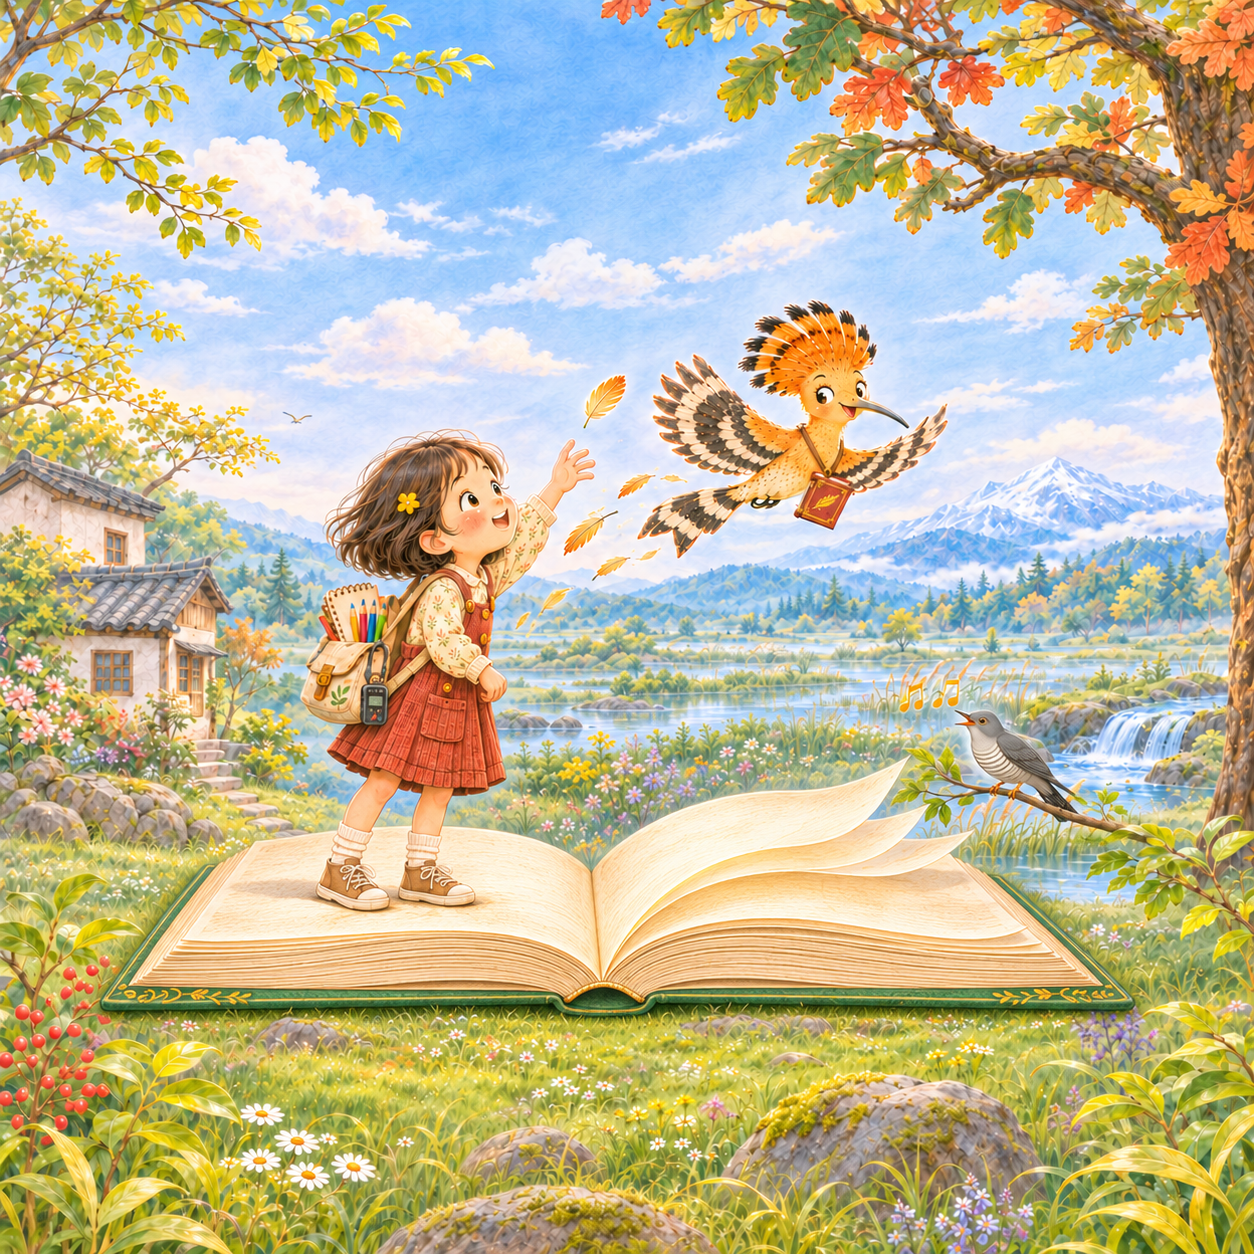
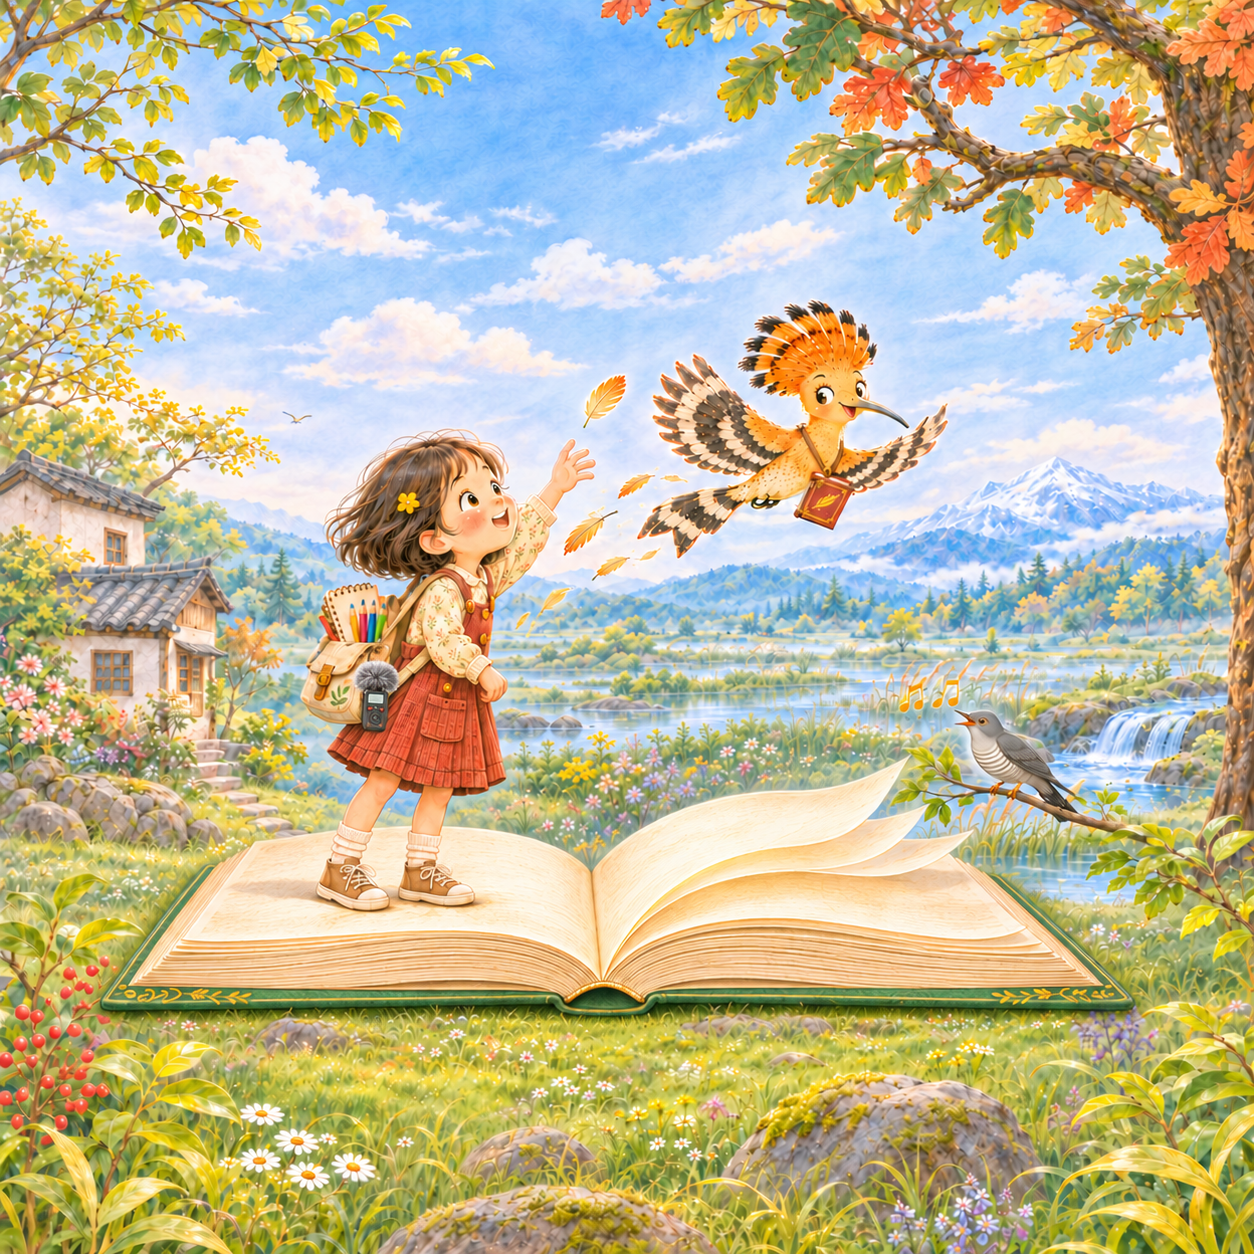
Add bird layered artwork P15-P34 and approved recorder reference

diff --git a/鸟类绘本/正式素材/README.md b/鸟类绘本/正式素材/README.md
@@ -1,6 +1,6 @@
 # 鸟类绘本正式分层素材
 
-全书40页，已生成42个PNG；逐页目视检查完成14/40页。只按下表实际文件与检查状态交付，未完成页不使用旧图或占位图。
+全书40页，已生成102个PNG；逐页目视检查完成31/40页。只按下表实际文件与检查状态交付，未完成页不使用旧图或占位图。
 
 依据[正式制图剧本](../正式制图剧本.md)与[制图约束规范](../制图约束规范.md)，按新版章节顺序归档。场景保存工具生成原尺寸，不超分或插值放大；标题正文与纸签为真正RGBA透明PNG，按原生像素无损分离，未用电脑字体替代手写字。工具输出的PPI元数据按实际保留，不用PPI声称新增细节。
 
@@ -24,26 +24,26 @@ P1为寻找提示；P37为观察记录（含本页百科）；P38献辞、P39封
 | P12 | 回到图书馆 | [1254×1254](01-第一章：飞向世界/P12｜回到图书馆/无字图-1254px.png) | [887×887](01-第一章：飞向世界/P12｜回到图书馆/标题与正文-透明底.png) | [887×887](01-第一章：飞向世界/P12｜回到图书馆/鸟类小百科-透明底.png) | 通过 |
 | P13 | 第二章：寻找最美鸟鸣 | [1254×1254](02-第二章：寻找最美鸟鸣/P13｜第二章：寻找最美鸟鸣/无字图-1254px.png) | [887×887](02-第二章：寻找最美鸟鸣/P13｜第二章：寻找最美鸟鸣/标题与正文-透明底.png) | [887×887](02-第二章：寻找最美鸟鸣/P13｜第二章：寻找最美鸟鸣/鸟类小百科-透明底.png) | 通过 |
 | P14 | 带上录音机，出发！ | [1254×1254](02-第二章：寻找最美鸟鸣/P14｜带上录音机，出发！/无字图-1254px.png) | [891×887](02-第二章：寻找最美鸟鸣/P14｜带上录音机，出发！/标题与正文-透明底.png) | [883×887](02-第二章：寻找最美鸟鸣/P14｜带上录音机，出发！/鸟类小百科-透明底.png) | 通过 |
-| P15 | 老街上的歌手 | 待生成 | 待生成 | 待生成 | 制作中 |
-| P16 | 大嗓门与小不点 | 待生成 | 待生成 | 待生成 | 制作中 |
-| P17 | 月光里的歌 | 待生成 | 待生成 | 待生成 | 制作中 |
-| P18 | 清晨的合唱 | 待生成 | 待生成 | 待生成 | 制作中 |
-| P19 | 湿地里的三位邻居 | 待生成 | 待生成 | 待生成 | 制作中 |
-| P20 | 把歌声画下来 | 待生成 | 待生成 | 待生成 | 制作中 |
-| P21 | 第三章：隐身大师与特技演员 | 待生成 | 待生成 | 待生成 | 制作中 |
-| P22 | 会移动的“小土块” | 待生成 | 待生成 | 待生成 | 制作中 |
-| P23 | 会悬停的蜂鸟 | 待生成 | 待生成 | 待生成 | 制作中 |
-| P24 | 风里的飞行高手 | 待生成 | 待生成 | 待生成 | 制作中 |
-| P25 | 草原大鸟鸵鸟 | 待生成 | 待生成 | 待生成 | 制作中 |
-| P26 | 南极企鹅 | 待生成 | 待生成 | 待生成 | 制作中 |
-| P27 | 溪流里的蓝宝石 | 待生成 | 待生成 | 待生成 | 制作中 |
-| P28 | 大网兜与“倒立鸭” | 待生成 | 待生成 | 待生成 | 制作中 |
-| P29 | 还有空白的一页 | 待生成 | 待生成 | 待生成 | 制作中 |
-| P30 | 第四章：鸟儿怎样生活 | 待生成 | 待生成 | 待生成 | 制作中 |
-| P31 | 林下的漂亮邻居 | 待生成 | 待生成 | 待生成 | 制作中 |
-| P32 | 竹林里的野生亲戚 | 待生成 | 待生成 | 待生成 | 制作中 |
-| P33 | 储藏家与编织匠 | 待生成 | 待生成 | 待生成 | 制作中 |
-| P34 | 秋林里的藏宝家 | 待生成 | 待生成 | 待生成 | 制作中 |
+| P15 | 老街上的歌手 | [1254×1254](02-第二章：寻找最美鸟鸣/P15｜老街上的歌手/无字图-1254px.png) | [887×887](02-第二章：寻找最美鸟鸣/P15｜老街上的歌手/标题与正文-透明底.png) | [887×887](02-第二章：寻找最美鸟鸣/P15｜老街上的歌手/鸟类小百科-透明底.png) | 通过 |
+| P16 | 大嗓门与小不点 | [1254×1254](02-第二章：寻找最美鸟鸣/P16｜大嗓门与小不点/无字图-1254px.png) | [887×887](02-第二章：寻找最美鸟鸣/P16｜大嗓门与小不点/标题与正文-透明底.png) | [887×887](02-第二章：寻找最美鸟鸣/P16｜大嗓门与小不点/鸟类小百科-透明底.png) | 通过 |
+| P17 | 月光里的歌 | [1254×1254](02-第二章：寻找最美鸟鸣/P17｜月光里的歌/无字图-1254px.png) | [887×887](02-第二章：寻找最美鸟鸣/P17｜月光里的歌/标题与正文-透明底.png) | [887×887](02-第二章：寻找最美鸟鸣/P17｜月光里的歌/鸟类小百科-透明底.png) | 通过 |
+| P18 | 清晨的合唱 | [1254×1254](02-第二章：寻找最美鸟鸣/P18｜清晨的合唱/无字图-1254px.png) | [887×887](02-第二章：寻找最美鸟鸣/P18｜清晨的合唱/标题与正文-透明底.png) | [887×887](02-第二章：寻找最美鸟鸣/P18｜清晨的合唱/鸟类小百科-透明底.png) | 通过 |
+| P19 | 湿地里的三位邻居 | [1254×1254](02-第二章：寻找最美鸟鸣/P19｜湿地里的三位邻居/无字图-1254px.png) | [887×887](02-第二章：寻找最美鸟鸣/P19｜湿地里的三位邻居/标题与正文-透明底.png) | [887×887](02-第二章：寻找最美鸟鸣/P19｜湿地里的三位邻居/鸟类小百科-透明底.png) | 通过 |
+| P20 | 把歌声画下来 | [1254×1254](02-第二章：寻找最美鸟鸣/P20｜把歌声画下来/无字图-1254px.png) | [887×887](02-第二章：寻找最美鸟鸣/P20｜把歌声画下来/标题与正文-透明底.png) | [887×887](02-第二章：寻找最美鸟鸣/P20｜把歌声画下来/鸟类小百科-透明底.png) | 通过 |
+| P21 | 第三章：隐身大师与特技演员 | [1254×1254](03-第三章：隐身大师与特技演员/P21｜第三章：隐身大师与特技演员/无字图-1254px.png) | [887×887](03-第三章：隐身大师与特技演员/P21｜第三章：隐身大师与特技演员/标题与正文-透明底.png) | [887×887](03-第三章：隐身大师与特技演员/P21｜第三章：隐身大师与特技演员/鸟类小百科-透明底.png) | 通过 |
+| P22 | 会移动的“小土块” | [1254×1254](03-第三章：隐身大师与特技演员/P22｜会移动的“小土块”/无字图-1254px.png) | [887×887](03-第三章：隐身大师与特技演员/P22｜会移动的“小土块”/标题与正文-透明底.png) | [887×887](03-第三章：隐身大师与特技演员/P22｜会移动的“小土块”/鸟类小百科-透明底.png) | 通过 |
+| P23 | 会悬停的蜂鸟 | [1254×1254](03-第三章：隐身大师与特技演员/P23｜会悬停的蜂鸟/无字图-1254px.png) | [887×887](03-第三章：隐身大师与特技演员/P23｜会悬停的蜂鸟/标题与正文-透明底.png) | [887×887](03-第三章：隐身大师与特技演员/P23｜会悬停的蜂鸟/鸟类小百科-透明底.png) | 通过 |
+| P24 | 风里的飞行高手 | [1254×1254](03-第三章：隐身大师与特技演员/P24｜风里的飞行高手/无字图-1254px.png) | [887×887](03-第三章：隐身大师与特技演员/P24｜风里的飞行高手/标题与正文-透明底.png) | [887×887](03-第三章：隐身大师与特技演员/P24｜风里的飞行高手/鸟类小百科-透明底.png) | 通过 |
+| P25 | 草原大鸟鸵鸟 | [1254×1254](03-第三章：隐身大师与特技演员/P25｜草原大鸟鸵鸟/无字图-1254px.png) | [887×887](03-第三章：隐身大师与特技演员/P25｜草原大鸟鸵鸟/标题与正文-透明底.png) | [887×887](03-第三章：隐身大师与特技演员/P25｜草原大鸟鸵鸟/鸟类小百科-透明底.png) | 通过 |
+| P26 | 南极企鹅 | [1254×1254](03-第三章：隐身大师与特技演员/P26｜南极企鹅/无字图-1254px.png) | [887×887](03-第三章：隐身大师与特技演员/P26｜南极企鹅/标题与正文-透明底.png) | [887×887](03-第三章：隐身大师与特技演员/P26｜南极企鹅/鸟类小百科-透明底.png) | 场景待检查／修订 |
+| P27 | 溪流里的蓝宝石 | [1254×1254](03-第三章：隐身大师与特技演员/P27｜溪流里的蓝宝石/无字图-1254px.png) | [887×887](03-第三章：隐身大师与特技演员/P27｜溪流里的蓝宝石/标题与正文-透明底.png) | [887×887](03-第三章：隐身大师与特技演员/P27｜溪流里的蓝宝石/鸟类小百科-透明底.png) | 通过 |
+| P28 | 大网兜与“倒立鸭” | [1254×1254](03-第三章：隐身大师与特技演员/P28｜大网兜与“倒立鸭”/无字图-1254px.png) | [887×887](03-第三章：隐身大师与特技演员/P28｜大网兜与“倒立鸭”/标题与正文-透明底.png) | [887×887](03-第三章：隐身大师与特技演员/P28｜大网兜与“倒立鸭”/鸟类小百科-透明底.png) | 通过 |
+| P29 | 还有空白的一页 | [1254×1254](03-第三章：隐身大师与特技演员/P29｜还有空白的一页/无字图-1254px.png) | [887×887](03-第三章：隐身大师与特技演员/P29｜还有空白的一页/标题与正文-透明底.png) | [887×887](03-第三章：隐身大师与特技演员/P29｜还有空白的一页/鸟类小百科-透明底.png) | 通过 |
+| P30 | 第四章：鸟儿怎样生活 | [1254×1254](04-第四章：鸟儿怎样生活/P30｜第四章：鸟儿怎样生活/无字图-1254px.png) | [887×887](04-第四章：鸟儿怎样生活/P30｜第四章：鸟儿怎样生活/标题与正文-透明底.png) | [887×887](04-第四章：鸟儿怎样生活/P30｜第四章：鸟儿怎样生活/鸟类小百科-透明底.png) | 通过 |
+| P31 | 林下的漂亮邻居 | [1254×1254](04-第四章：鸟儿怎样生活/P31｜林下的漂亮邻居/无字图-1254px.png) | [887×887](04-第四章：鸟儿怎样生活/P31｜林下的漂亮邻居/标题与正文-透明底.png) | [887×887](04-第四章：鸟儿怎样生活/P31｜林下的漂亮邻居/鸟类小百科-透明底.png) | 场景待检查／修订 |
+| P32 | 竹林里的野生亲戚 | [1254×1254](04-第四章：鸟儿怎样生活/P32｜竹林里的野生亲戚/无字图-1254px.png) | [887×887](04-第四章：鸟儿怎样生活/P32｜竹林里的野生亲戚/标题与正文-透明底.png) | [887×887](04-第四章：鸟儿怎样生活/P32｜竹林里的野生亲戚/鸟类小百科-透明底.png) | 场景待检查／修订 |
+| P33 | 储藏家与编织匠 | [1254×1254](04-第四章：鸟儿怎样生活/P33｜储藏家与编织匠/无字图-1254px.png) | [887×887](04-第四章：鸟儿怎样生活/P33｜储藏家与编织匠/标题与正文-透明底.png) | [887×887](04-第四章：鸟儿怎样生活/P33｜储藏家与编织匠/鸟类小百科-透明底.png) | 通过 |
+| P34 | 秋林里的藏宝家 | [1254×1254](04-第四章：鸟儿怎样生活/P34｜秋林里的藏宝家/无字图-1254px.png) | [887×887](04-第四章：鸟儿怎样生活/P34｜秋林里的藏宝家/标题与正文-透明底.png) | [887×887](04-第四章：鸟儿怎样生活/P34｜秋林里的藏宝家/鸟类小百科-透明底.png) | 通过 |
 | P35 | 风暴中的火烈鸟与军舰鸟 | 待生成 | 待生成 | 待生成 | 制作中 |
 | P36 | 每一种声音，都有自己的位置 | 待生成 | 待生成 | 待生成 | 制作中 |
 | P37 | 我的鸟类观察手册 | 待生成 | 待生成 | 待生成 | 制作中 |
@@ -55,7 +55,7 @@ P1为寻找提示；P37为观察记录（含本页百科）；P38献辞、P39封
 
 | 页码 | SHA-256 |
 |---|---|
[5 lines of base64/hex data omitted]
@@ -67,5 +67,25 @@ P1为寻找提示；P37为观察记录（含本页百科）；P38献辞、P39封
[27 lines of base64/hex data omitted]

diff --git a/skills/childrens-picturebook-illustration/SKILL.md b/skills/childrens-picturebook-illustration/SKILL.md
@@ -144,6 +144,7 @@ Apply these constraints to this project. The user's latest confirmed correction 
 ## 文件命名与当前项目
 
 - 鸟类本轮允许改动构图并缩小主体：四边约12%—15%连续自然环境缓冲，核心人物动物向内收，装订侧额外避让，逐页检查实际边距。开放精装书要有左右朝上内页、中间书槽、纸堆下薄封皮；封面小满站在一侧书页上，不再站书脊或竖直封皮边。此最新要求优先于下文旧封面提示词。
+- 鸟类录音机以[用户确认的P24造型与手部比例](../../鸟类绘本/制图参考/README.md)为唯一标准：深灰竖式小机身、单个圆形灰色防风毛罩、小屏、小红键与下部圆形控制区。P24原图不改，其他页统一同款与人物尺度；桌面与收纳状态也不能换款或变大音箱。每景一台，不复制包外设备。
 
 - 当前文件范围和逐页索引见[仓库README](../../README.md)；文件页码用于排序，不渲染到标题中。
 - 雨林按`热带雨林绘本/正式素材/P页码｜标题/`归档，每页保存`无字图-1254px.png`、`标题与正文-透明底.png`及有需要的专用纸签。来源与实际尺寸核对后逐字节保存，不为凑尺寸缩放场景。
@@ -151,7 +152,7 @@ Apply these constraints to this project. The user's latest confirmed correction 
 - P15标题正文与百科采用P16参考的饱满手写笔触和暖棕配色，不回退到偏细僵直的文字风格。文字修订保持原文案与无字画面；新文字层按工具实际输出尺寸保存，不为对齐存量宽度插值放大。
 - [草原剧本](../../非洲草原绘本/制图剧本.md)和[草原约束](../../非洲草原绘本/制图约束规范.md)尚未对应正式图像，不把剧本范围当作图页已完成。
 - 文字分层、特殊页、字形修订和PDF要求见[图片生产与验收规范](references/image-production.md)。不交付合画重复文件、扩图、超清、旧版、工具缓存或历史制作记录。
-- 鸟类续制按新编号保留已确认的P35三只火烈鸟和蓝灰湖水、P32双手在身前捧本的站姿、P36坐姿播放录音；本仓库未附这些页的正式图片，不能假定旧参考图存在。新旧编号用章节对照表核对，雨林页码不随鸟类重排变化。
+- 鸟类按新编号保留已确认的P35三只火烈鸟和蓝灰湖水、P32双手在身前捧本的站姿、P36坐姿播放录音；正式图片以[素材索引](../../鸟类绘本/正式素材/README.md)列出的当前文件为准。新旧编号用章节对照表核对，雨林页码不随鸟类重排变化。
 - 更新已命名文件前核实当前Git提交可恢复原文件。只修改用户指定范围，将跨页适用的新规则记录进本Skill。
 - 用户要求同步上传时，验收后提交、推送并核实远端；没有上传授权时仅保存本地。只在用户明确要求时重置Git历史。
 

diff --git a/鸟类绘本/章节重排与前后对照.md b/鸟类绘本/章节重排与前后对照.md
@@ -1,8 +1,8 @@
 # 鸟类绘本：章节重排与前后对照
 
-当前制图依据为[正式制图剧本](正式制图剧本.md)，配套使用[制图约束规范](制图约束规范.md)。本轮整理的是章节归属、阅读顺序、章间衔接和文稿导航；未生成、重命名或迁入鸟类图像，未改动雨林素材及PDF。
+当前制图依据为[正式制图剧本](正式制图剧本.md)，配套使用[制图约束规范](制图约束规范.md)。本表记录章节重排时的资源核查、阅读顺序和文稿差异；此后按新剧本重绘的文件与实际检查状态见[正式素材索引](正式素材/README.md)。雨林素材及PDF不随鸟类重排改动。
 
-## 资源核查
+## 重排时的资源核查（历史快照）
 
 | 位置 | 实际资源 | 本轮处理 |
 |---|---|---|
@@ -12,7 +12,7 @@
 | 原book_1/鸟类绘本/绘本图片 | 20个PNG | 旧版本图片，不能把数量当成新版完成页数 |
 | 原book_1/鸟类绘本/扩图版 | 36个PNG | 扩图衍生成品，不迁入正式交付 |
 
-原仓库上述92个PNG包含版本与衍生成品，不能当作92张独立正式图。book_2仍没有鸟类正式无字场景、独立标题百科或阅读PDF。旧资源保持原状；后续取用时按本表核对内容身份，不直接套新页码。
+原仓库上述92个PNG包含版本与衍生成品，不能当作92张独立正式图。重排当时book_2尚无鸟类正式分层图；后续新制素材按新版编号进入本仓库，实际文件以正式素材索引为准，鸟类尚未制作阅读PDF。旧资源保持原状；取用参考时按本表核对内容身份，不直接套新页码。
 
 ## 结构前后差异
 

diff --git a/鸟类绘本/正式制图剧本.md b/鸟类绘本/正式制图剧本.md
@@ -10,6 +10,7 @@
 - 羽羽是戴胜鸟书精灵：金棕色身体，黑尖扇形羽冠，细长微弯喙，黑白横斑翅膀，书签状尾羽。布谷鸟是另一只鸟：无羽冠、灰色头胸、浅色横纹腹部、深色长尾。
 - 全书延续温暖的儿童卡通水彩和彩铅风格。夜晚、雪地保留环境色，用灯光、衣服或晨昏光维持温暖感。
 - 金色双音符专属于布谷鸟线索；其他鸟鸣用不同色彩和节奏表示。实物、声音和魔法图示需可区分。
+- 录音机统一使用[用户选中的P24款式及手部比例](制图参考/README.md)，保留顶部单个圆形灰色防风毛罩。机身与手的关系、按键布局和桌面实际尺寸跨页保持一致；未使用时可收在包内，不复制多台设备。
 - 书本带人物穿越不同地区和时段，不暗示所有鸟都生活在同一片森林。各页百科与故事分区排版，长文按自然语句断行。
 - 本稿保留四章与40页，章扉改为P3/P13/P21/P30，四章分别为10/8/9/7页。这里的页码是内容编号；若实体装订将封面另计，需另做印刷页码表。
 - 图内标题仅展示文字，不印内容页码或页码分隔符；“第一章”等章节名照常保留。文稿与图片文件名继续使用P页码管理，不与图内标题混用。

diff --git a/鸟类绘本/制图参考/README.md b/鸟类绘本/制图参考/README.md
@@ -1,0 +1,12 @@
+# 录音机：用户确认款
+
+[手部比例与造型参考](录音机统一造型.png)直接从用户选中的P24《风里的飞行高手》原图无损裁出，未缩放，不是重新设计的设备。以图中录音机与手的关系为准，不照搬参考中的服装、表情或背景。
+
+- 深灰色小型竖式机身，顶部只有一个圆形灰色绒毛防风罩。
+- 上方浅色小屏，屏下小红键，下半部圆形控制区；机身、毛罩及按键布局都沿用参考，不随页面换款。
+- 手持时保持参考的机身与手掌比例，单手能自然握持；按人物远近、朝向和透视变化，不能用所有页面同一像素大小代替比例核对。
+- 桌面、包侧收纳也必须是同一台实物，不能变大音箱、台式控制台、双毛球、双麦头或没有毛罩的另一款。
+- 每个场景只出现一台；正在手持或桌面使用时，布包侧面不再外挂第二台。剧本未要求展示时可收在包内。
+- P24是用户选中的标准原图，保留其录音机和手部不改；其余出现设备的页面向它统一。
+
+实际文件与逐页检查状态见[素材索引](../正式素材/README.md)。

diff --git a/鸟类绘本/制图约束规范.md b/鸟类绘本/制图约束规范.md
@@ -31,6 +31,7 @@
 
 - 5岁女孩，短发；脸型、年龄感、发型与人物面貌连续，不因换装变成另一个孩子。
 - 随身小布包，露出笔记本和彩铅。第二章起按情节使用便携录音机，避免无意复制出多台相同道具。
+- 录音机按[用户确认款与手部比例](制图参考/README.md)绘制：深灰小型竖式机身、一个圆形灰色防风毛罩、上方小屏、屏下小红键、下半部圆形控制区。P24标准原图保持不改；其他手持、桌面及包侧状态统一同款与实际比例，每景只一台，不改成双毛球、大音箱或无毛罩的另一款。
 - 衣服、鞋帽随天气、地面与活动变化。黄色雨靴不是永久标识；无雨水、泥地时不默认穿雨靴。
 - 观察时眼神明确望向鸟；画画时看记录，听录音时可闭眼微笑，动作应与情节相符。
 

diff --git a/README.md b/README.md
@@ -46,6 +46,9 @@ skills/childrens-picturebook-illustration/
 ├── 正式制图剧本.md
 ├── 制图约束规范.md
 ├── 章节重排与前后对照.md
+├── 制图参考/
+│   ├── README.md
+│   └── 录音机统一造型.png
 └── 正式素材/章节/P页码｜标题/
     ├── 无字图-1254px.png
     ├── 标题与正文-透明底.png
